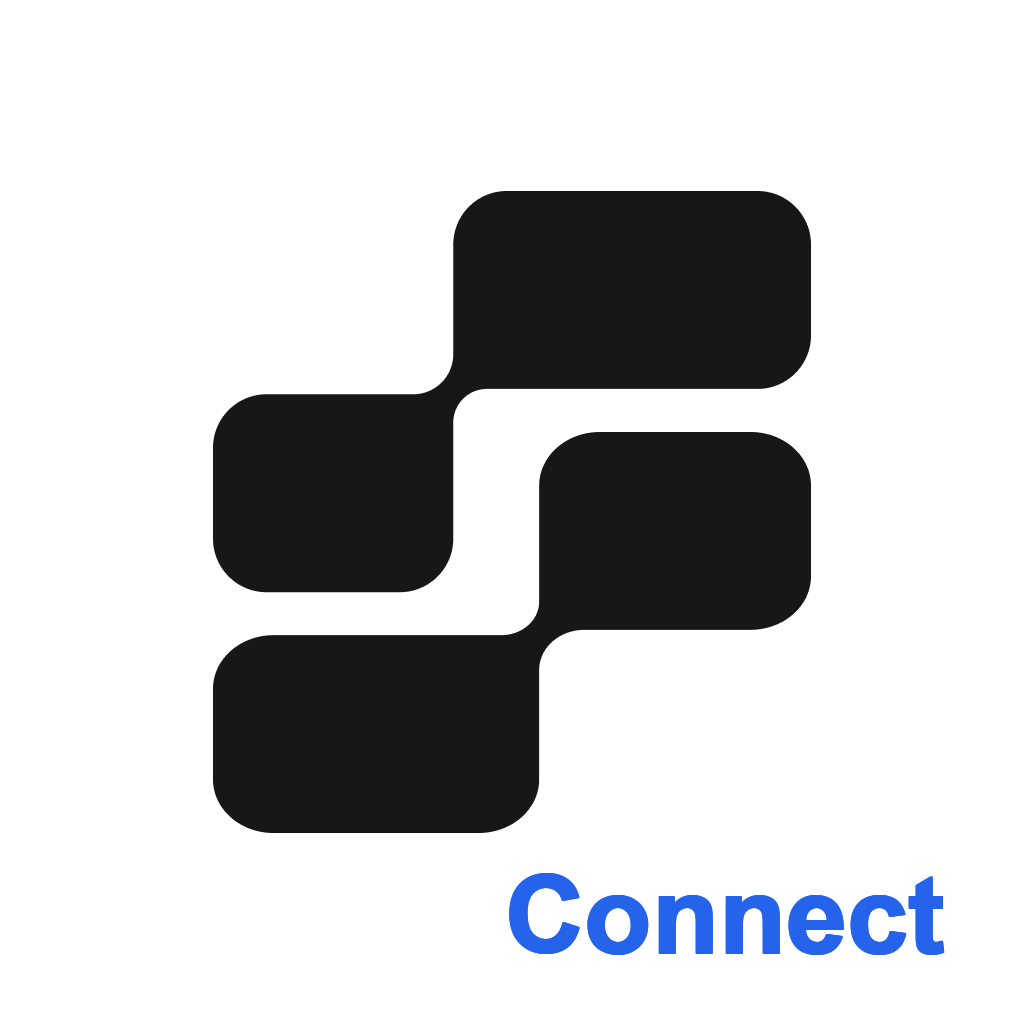
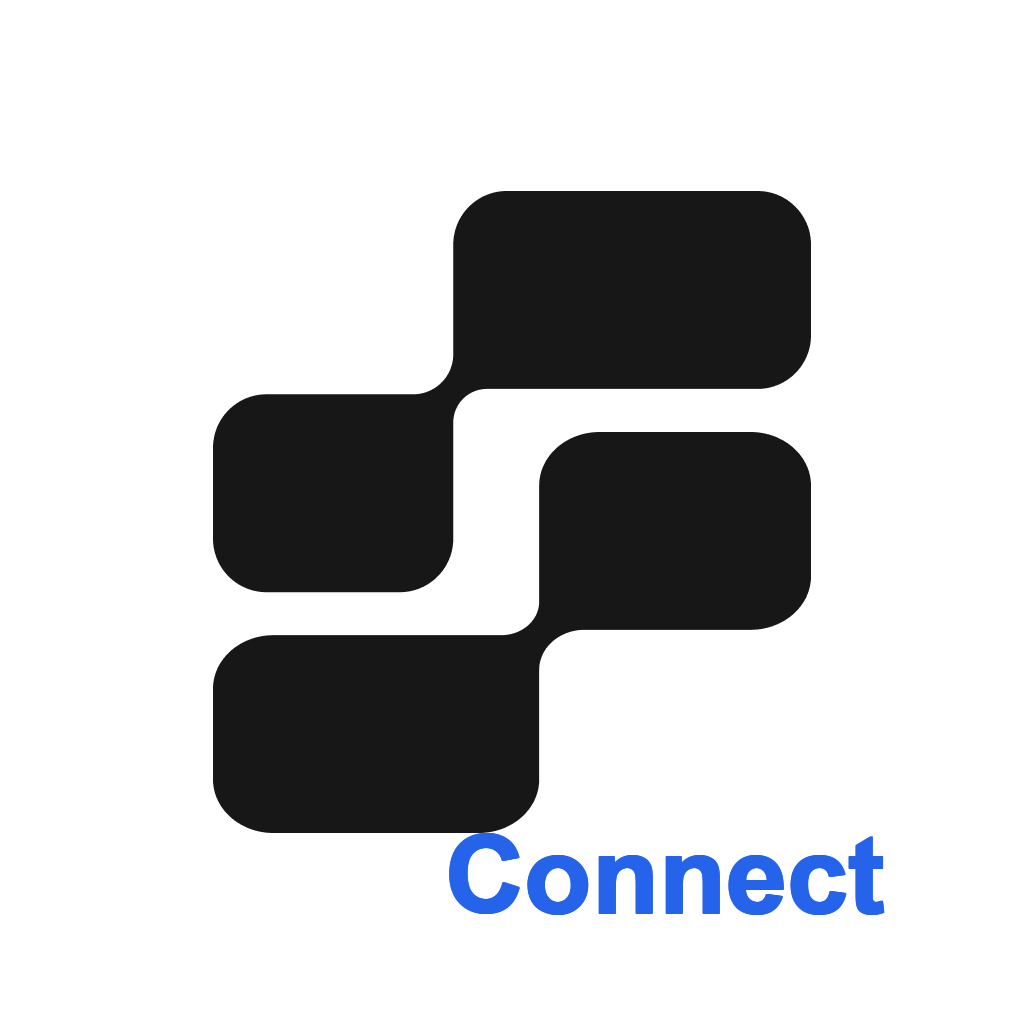
Move Connect text inward to clear rounded corners, restore border-radius

Changed region(s): [[0.4375, 0.8125, 0.9375, 0.9375]]

diff --git a/index.html b/index.html
@@ -37,7 +37,7 @@
       .app-icon {
         width: 96px;
         height: 96px;
-        border-radius: 0;
+        border-radius: 22px;
         margin-bottom: 24px;
       }
 
